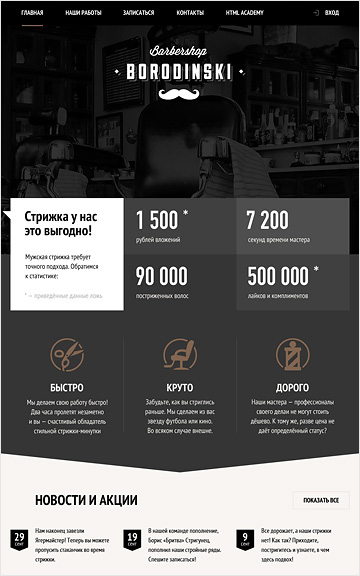
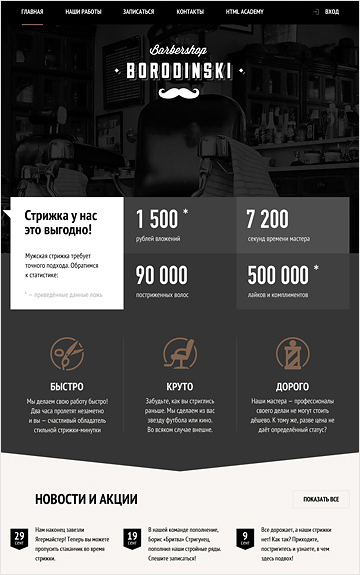
Внесены изменения в шапку в catalog.html

diff --git a/catalog.html b/catalog.html
@@ -12,8 +12,8 @@
 	<!-- Блок хедера -->
 	<header class="main-header">
 		<!-- Блок меню -->
-		<div class="container">
-			<a class="link-index" href="index.html">
+		<div class="header-navigation container">
+			<a class="link-index" href="">
 				<img class="site-logo" src="img/site-logo.svg" alt="Логотип дизайн студии Nerd's" width="160" height="69">
 			</a>
 			<nav class="menu">

diff --git a/css/style.css b/css/style.css
@@ -43,6 +43,7 @@ a {
   color: #fff;
   text-transform: uppercase;
   text-align: center;
+  border-radius: 5px;
 
 }
 
@@ -358,6 +359,7 @@ a {
   display: flex;
   justify-content: space-around;
   margin: 0;
+  margin-bottom: 80px;
   padding: 0;
   border-bottom: 2px solid #eee;
  }
@@ -377,6 +379,3 @@ a {
 .partner-link:focus {
   opacity: 0.1;
 }
-
-
-
